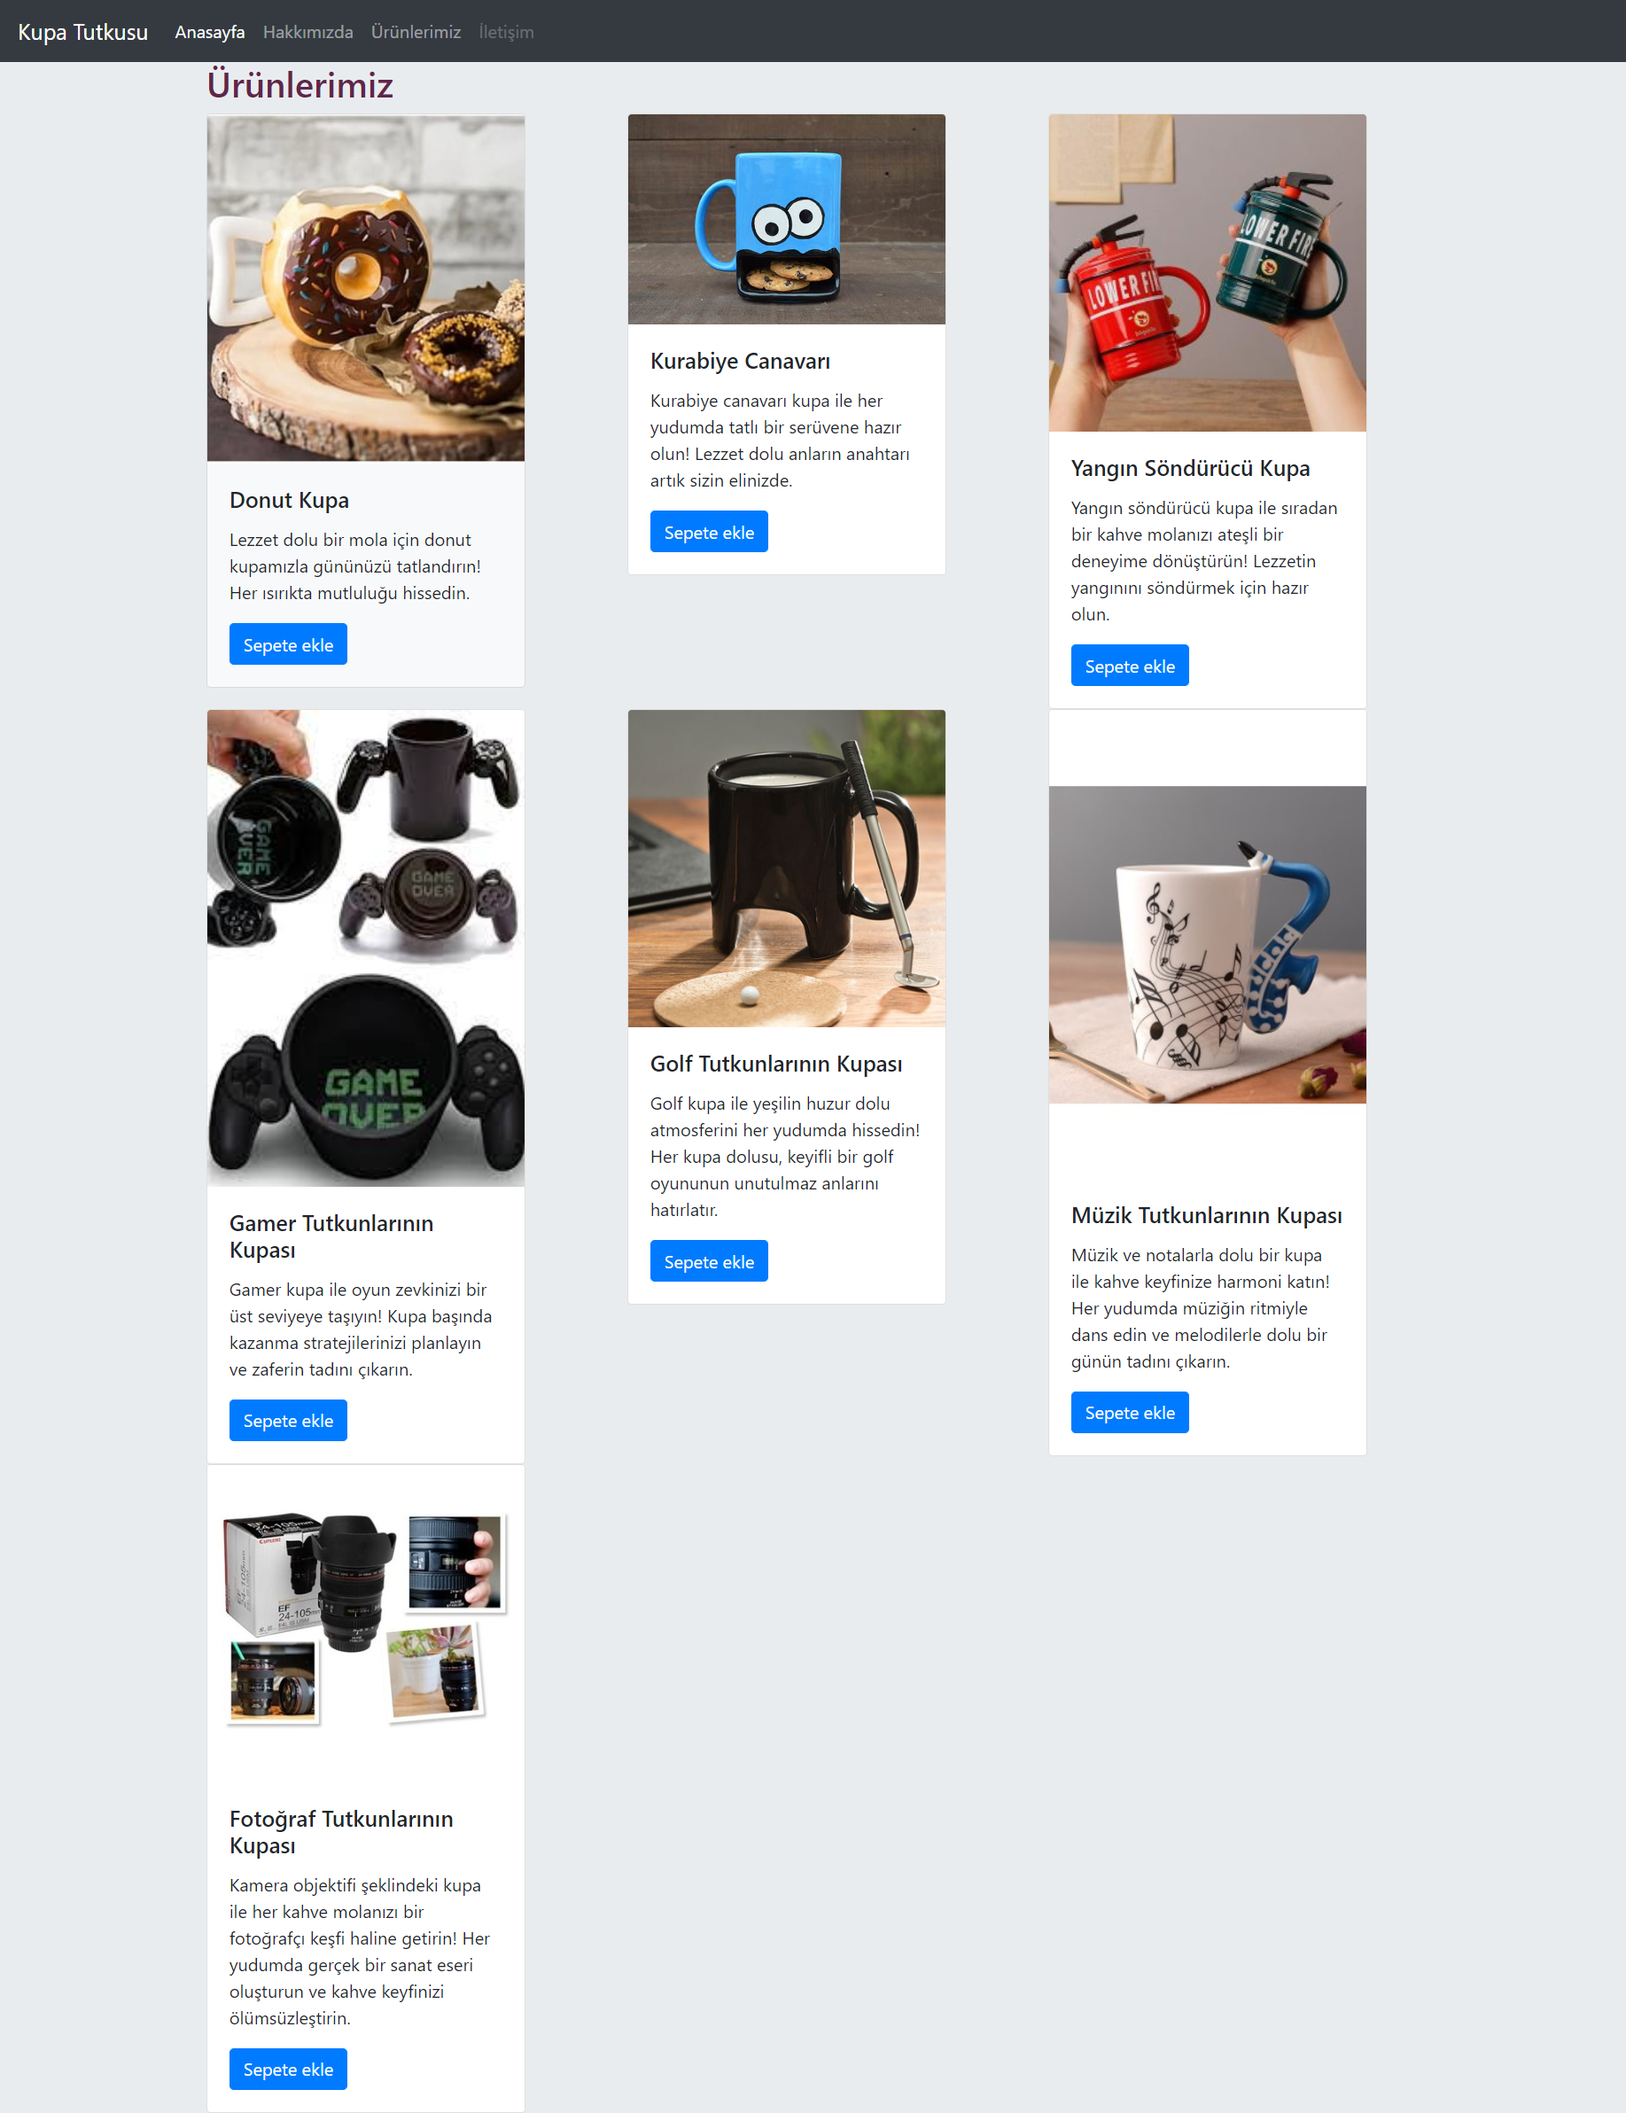
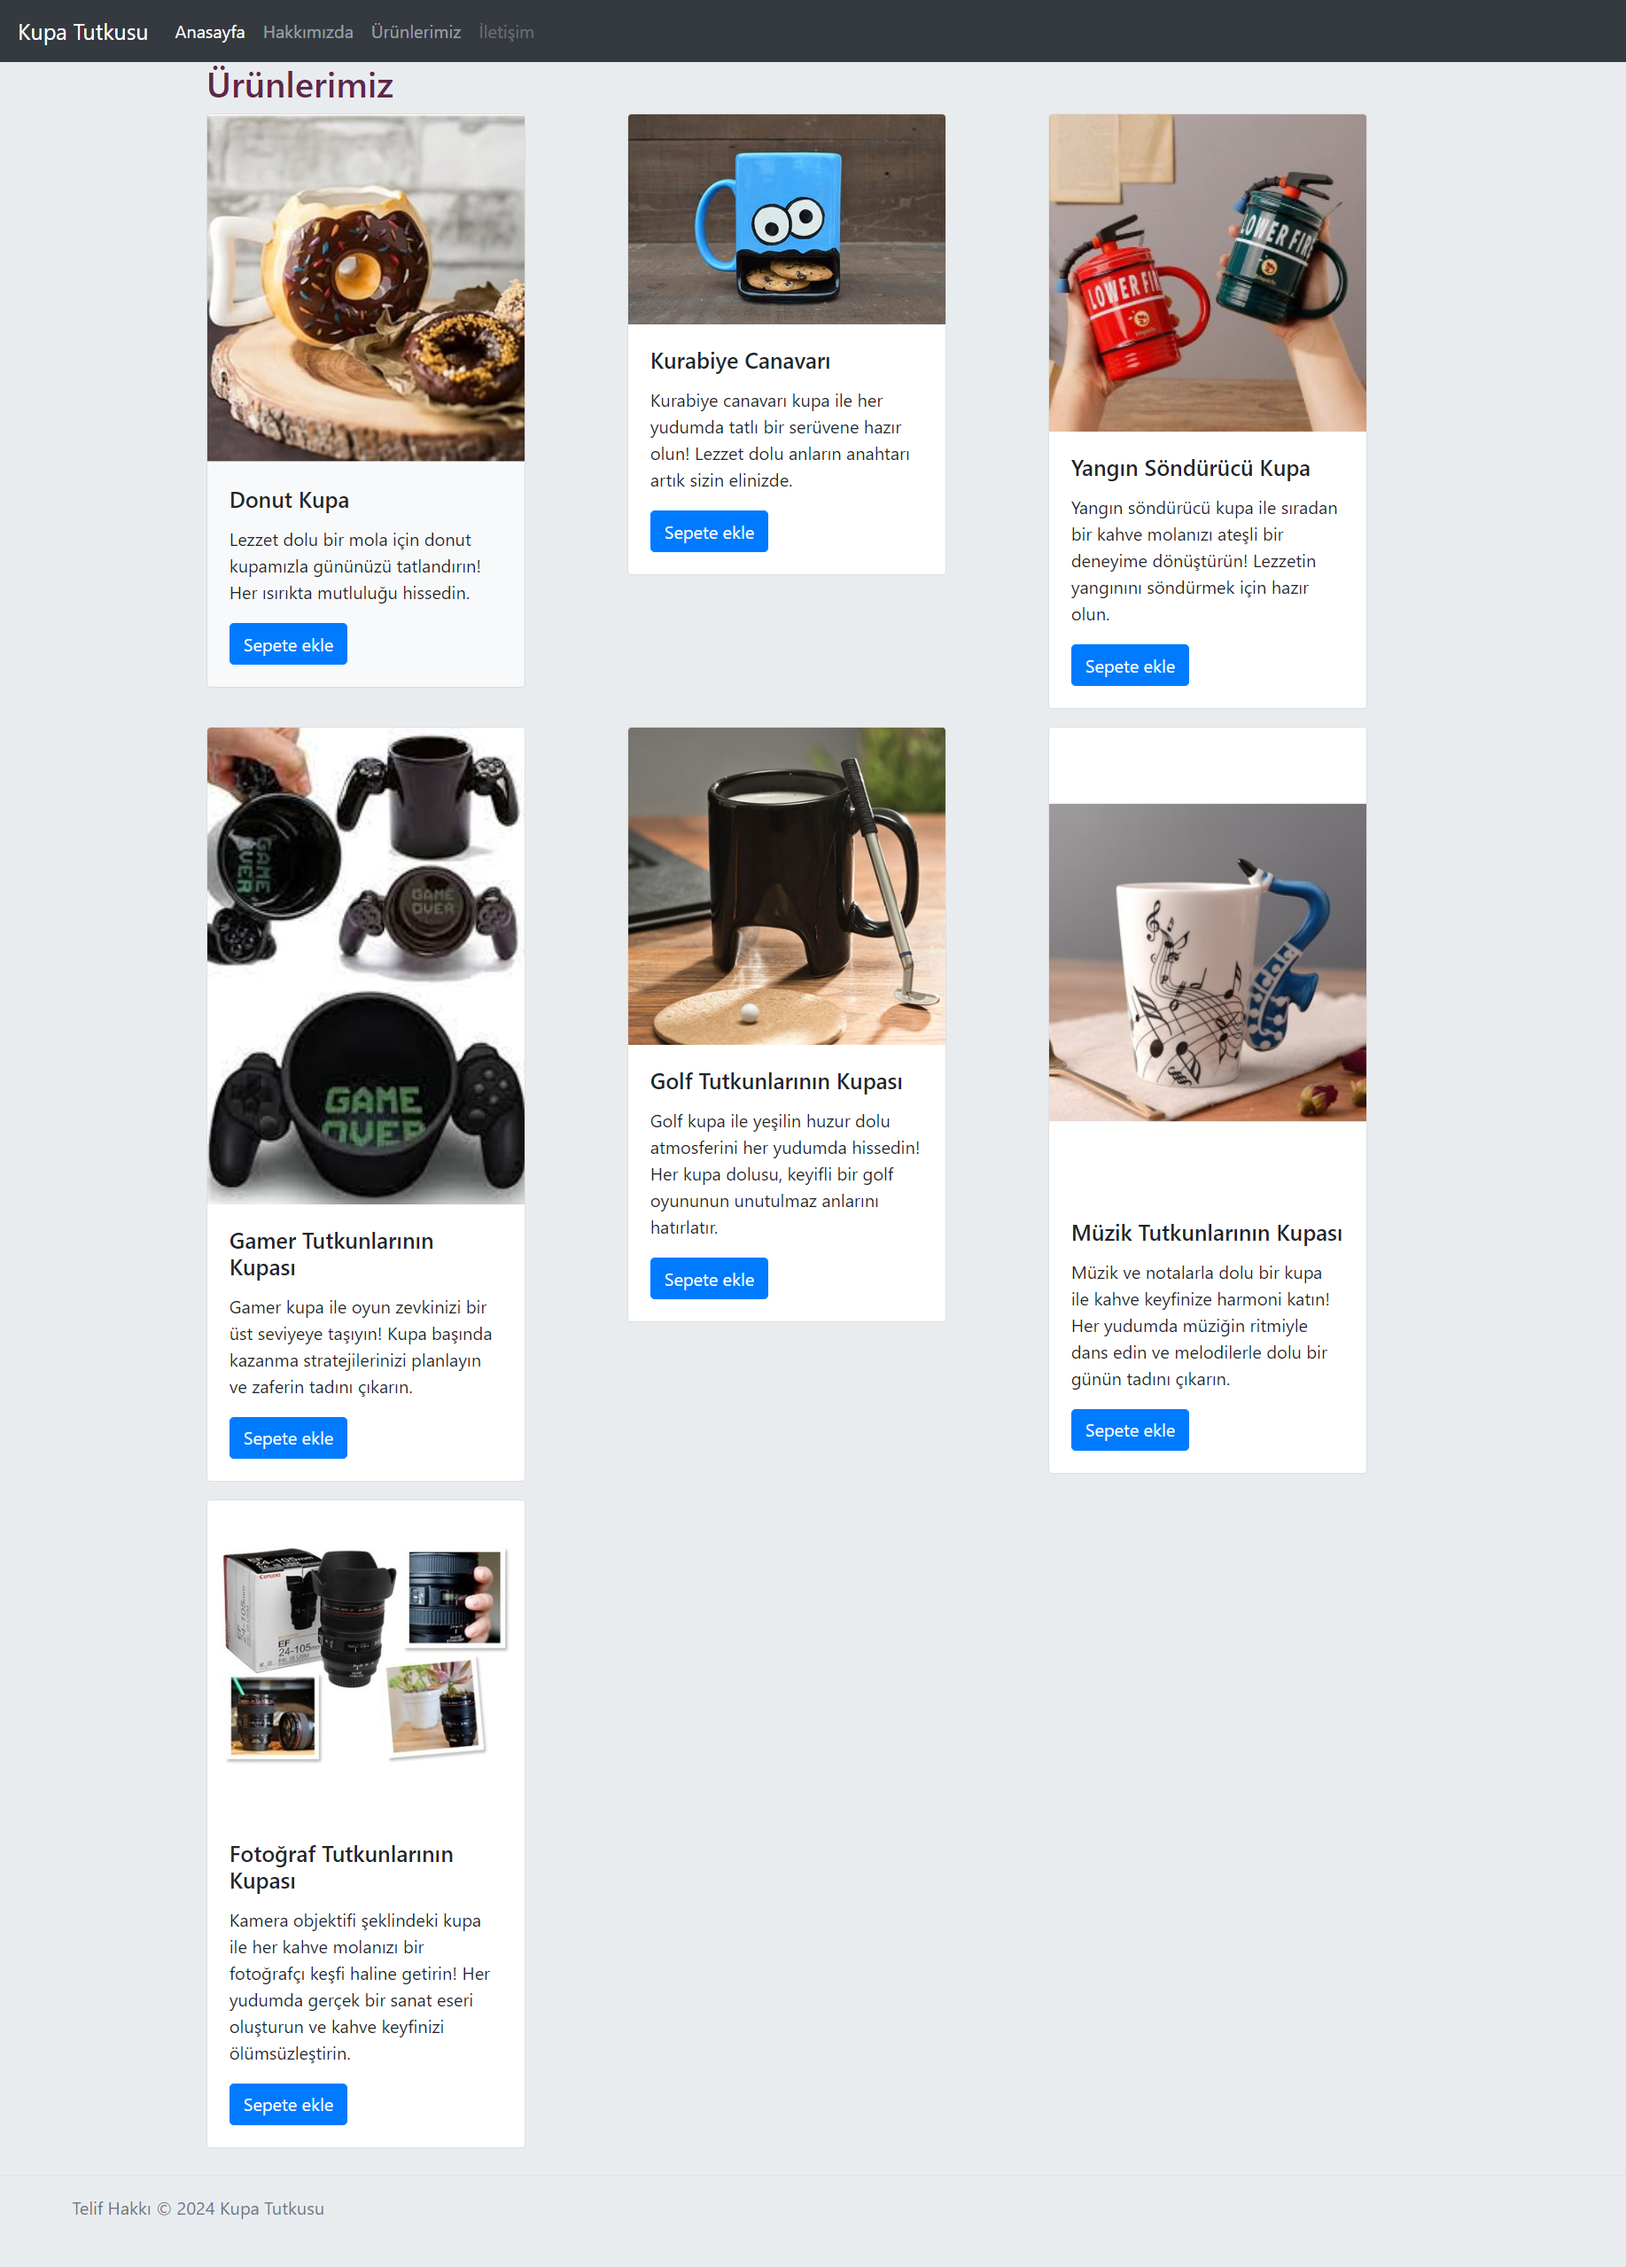
güncel

diff --git a/Week-3/Odev-1(Bootstrap)/urun.html b/Week-3/Odev-1(Bootstrap)/urun.html
@@ -44,9 +44,10 @@
 
     <div class="container">
       <h2>Ürünlerimiz</h2>
-        <div class="row mt-2">
+        <div class="row">
+          
           <!-- Donut Kupa -->
-          <div class="col-4">
+          <div class="col-sm">
             <div class="card bg-light" style="width: 18rem;">
               <img src="https://cdn03.ciceksepeti.com/cicek/kcm85630097-1/M/donut-tasarimli-kupa-bardak-kcm85630097-1-0b6a97ea521b4f0e9c0d0e0ec94b4564.jpg" class="card-img-top" alt="Donut Kupa">
               <div class="card-body">
@@ -57,7 +58,7 @@
             </div>
           </div>
           <!-- Kurabiye Canavarı -->
-          <div class="col-4">
+          <div class="col-sm mb-3">
             <div class="card" style="width: 18rem;">
               <img src="https://mkavlakci.com/wp-content/uploads/2015/07/creativecupsmugspart2131_d.jpg" class="card-img-top" alt="Kurabiye Canavarı">
               <div class="card-body">
@@ -68,7 +69,7 @@
             </div>
           </div>
           <!-- Yangın söndürücü -->
-          <div class="col-4">
+          <div class="col-sm mb-3">
             <div class="card" style="width: 18rem;">
               <img src="https://files.bundesign.com/dosyalar/2023/12/yangin-sondurucu-kupa-bardak2-270x270.jpg" class="card-img-top" alt="Kurabiye Canavarı">
               <div class="card-body">
@@ -79,7 +80,8 @@
             </div>
           </div>
           <!-- gamer kupa -->
-          <div class="col-4">
+          <!-- mb-3: margin bottom-3 -->
+          <div class="col-sm mb-3">
             <div class="card" style="width: 18rem;">
               <img src="https://encrypted-tbn0.gstatic.com/images?q=tbn:ANd9GcQXYoZuDnawbSrdNxRq4Zg2UAaahwlsIejIZWTvhpC-TdcZZzDnsHiTd_tm0jSFKOF22Hg&usqp=CAU" class="card-img-top" alt="gamer kupa">
               <div class="card-body">
@@ -90,7 +92,7 @@
             </div>
           </div>
           <!-- golf -->
-          <div class="col-4">
+          <div class="col-sm">
             <div class="card" style="width: 18rem;">
               <img src="https://files.bundesign.com/dosyalar/2016/06/golf-kupa-bardak6.jpg" class="card-img-top" alt="golf kupa">
               <div class="card-body">
@@ -102,7 +104,7 @@
           </div>
           <!-- müzik -->
           <!-- .col-4 -->
-          <div class="col-4">
+          <div class="col-sm">
             <div class="card" style="width: 18rem;">
               <img src="https://productimages.hepsiburada.net/s/507/300-443/110000561552977.jpg" class="card-img-top" alt="müzik kupa">
               <div class="card-body">
@@ -114,7 +116,7 @@
           </div>
 
           <!-- fotoğrafçı -->
-          <div class="col-4">
+          <div class="col-sm">
             <div class="card" style="width: 18rem;">
               <img src="https://productimages.hepsiburada.net/s/12/375-375/9154085912626.jpg" class="card-img-top" alt="objektif kupa">
               <div class="card-body">
@@ -126,5 +128,13 @@
           </div>
         </div>
       </div>
+      <footer class="d-flex flex-wrap justify-content-between align-items-center py-3 my-4 border-top">
+        <div class="col-md-4 d-flex align-items-center">
+          <a href="/" class="mb-3 me-2 mb-md-0 text-muted text-decoration-none lh-1">
+            <svg class="bi" width="30" height="24"><use xlink:href="#bootstrap"></use></svg>
+          </a>
+          <span class="mb-3 mb-md-0 text-muted">Telif Hakkı © 2024 Kupa Tutkusu</span>
+        </div>
+      </footer>
   </body>
 </html>

diff --git a/Week-2/Odev-1/anasayfa.html b/Week-2/Odev-1/anasayfa.html
@@ -12,10 +12,10 @@
     <header>
         <!-- başlık etiketi: giriş içeriğini temsil eder. Bazı başlık öğelerinin yanı sıra bir logo, arama formu, yazar adı ve diğer öğeleri de içerebilir. -->
         <nav align="center">
-    <!-- Gezinme Bölümü öğesi: örnekleri menüler, içindekiler ve dizinlerdir. -->
+          <!-- Gezinme Bölümü öğesi: başlık etiketi: -->
             <h1 class="h1"> Yıldız Kafe </h1>
             <a href="anasayfa.html">Ana sayfa</a> 
-            <a href="hakkımızda.html">Hakkımızda</a> 
+            <a href="hakkımızda.html">Hakkımızda</a>
             <a href="ıcecekler.html">İçecekler</a> 
 
 

diff --git a/Week-3/Odev-1(Bootstrap)/hakkımızda.html b/Week-3/Odev-1(Bootstrap)/hakkımızda.html
@@ -58,8 +58,13 @@
           </p>
       </div>
       
-    <footer>
-      <p>Telif Hakkı © 2024 Kupa Tutkusu</p>
+    <footer class="d-flex flex-wrap justify-content-between align-items-center py-3 my-4 border-top">
+      <div class="col-md-4 d-flex align-items-center">
+        <a href="/" class="mb-3 me-2 mb-md-0 text-muted text-decoration-none lh-1">
+          <svg class="bi" width="30" height="24"><use xlink:href="#bootstrap"></use></svg>
+        </a>
+        <span class="mb-3 mb-md-0 text-muted">Telif Hakkı © 2024 Kupa Tutkusu</span>
+      </div>
     </footer>
 
   </body>

diff --git a/Week-3/Odev-1(Bootstrap)/anasayfa.html b/Week-3/Odev-1(Bootstrap)/anasayfa.html
@@ -52,7 +52,12 @@
     </div>
   </div>
   </body>
-    <footer>
-    <p>Telif Hakkı © 2024 Kupa Tutkusu</p>
+  <footer class="d-flex flex-wrap justify-content-between align-items-center py-3 my-4 border-top">
+    <div class="col-md-4 d-flex align-items-center">
+      <a href="/" class="mb-3 me-2 mb-md-0 text-muted text-decoration-none lh-1">
+        <svg class="bi" width="30" height="24"><use xlink:href="#bootstrap"></use></svg>
+      </a>
+      <span class="mb-3 mb-md-0 text-muted">Telif Hakkı © 2024 Kupa Tutkusu</span>
+    </div>
   </footer>
 </html>
